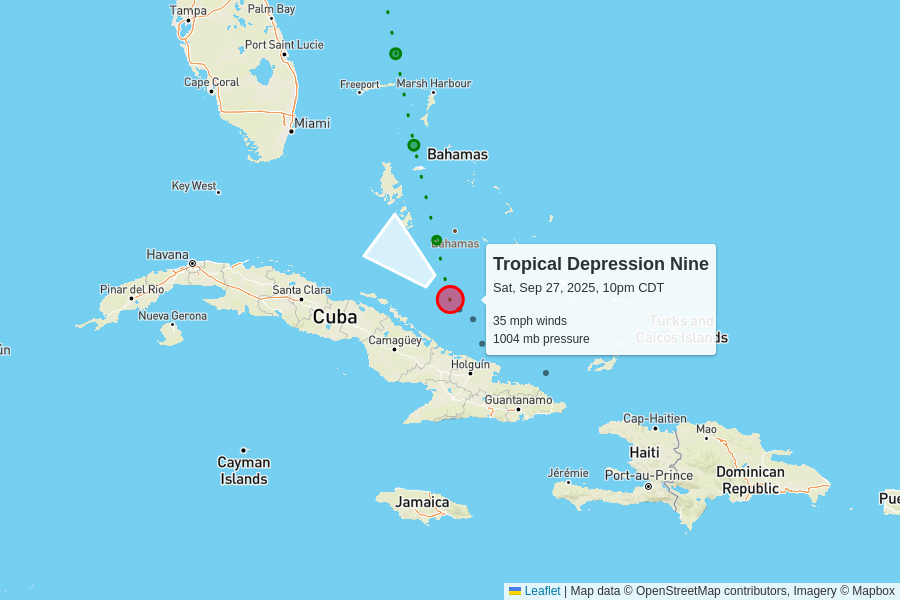
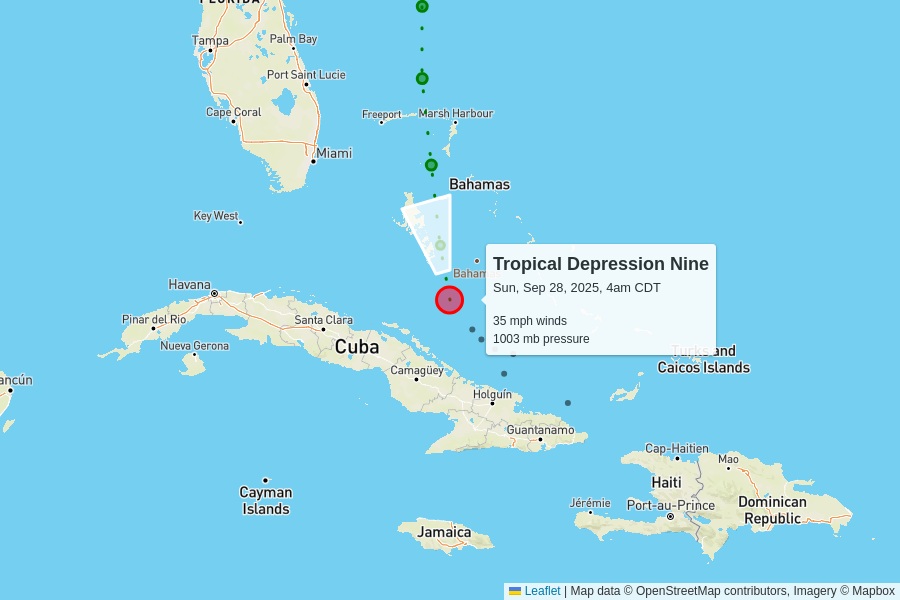
automatic update

diff --git a/docs/index.html b/docs/index.html
@@ -101,10 +101,10 @@
 
     <table>
       <tr>
-        <td colspan="6" class="storm category-5" >
+        <td colspan="6" class="storm category-4" >
           <h2>
-            Hurricane Humberto - Category 5
-            <p class="updated">last updated <span data-time>2025-09-28T03:00:00.000Z</span></p>
+            Hurricane Humberto - Category 4
+            <p class="updated">last updated <span data-time>2025-09-28T09:00:00.000Z</span></p>
           </h2>
         </td>
       </tr>
@@ -119,12 +119,12 @@
       </tr>
       <tr>
         <td class="spacer"></td>
-        <td>160 mph<br>0 mph since last update</td>
-        <td>924 mb<br>-1 mb since last update</td>
+        <td>155 mph<br>-5 mph since last update</td>
+        <td>929 mb<br>+5 mb since last update</td>
         <td>
-          13 mph to the northwest
+          13 mph to the west-northwest
           <br/>
-          <span style="display: inline-block; font-size: 1.5em; transform: rotate(305deg);">↑</span>
+          <span style="display: inline-block; font-size: 1.5em; transform: rotate(300deg);">↑</span>
         </td>
         <td><a href="https://raw.githubusercontent.com/mgwalker/atlantic-hurricanes/main/data/csv/AL082025.csv">AL082025.csv</a></td>
         <td><a href="https://www.nhc.noaa.gov/archive/2025/HUMBERTO.shtml?">NHC advisories</a></td>
@@ -148,7 +148,7 @@
         <td colspan="6" class="storm category-0" >
           <h2>
             Tropical Depression Nine
-            <p class="updated">last updated <span data-time>2025-09-28T03:00:00.000Z</span></p>
+            <p class="updated">last updated <span data-time>2025-09-28T09:00:00.000Z</span></p>
           </h2>
         </td>
       </tr>
@@ -164,11 +164,11 @@
       <tr>
         <td class="spacer"></td>
         <td>35 mph<br>0 mph since last update</td>
-        <td>1004 mb<br>-1 mb since last update</td>
+        <td>1003 mb<br>-1 mb since last update</td>
         <td>
-          2 mph to the northwest
+          7 mph to the north-northwest
           <br/>
-          <span style="display: inline-block; font-size: 1.5em; transform: rotate(310deg);">↑</span>
+          <span style="display: inline-block; font-size: 1.5em; transform: rotate(345deg);">↑</span>
         </td>
         <td><a href="https://raw.githubusercontent.com/mgwalker/atlantic-hurricanes/main/data/csv/AL092025.csv">AL092025.csv</a></td>
         <td><a href="https://www.nhc.noaa.gov/archive/2025/NINE.shtml?">NHC advisories</a></td>
